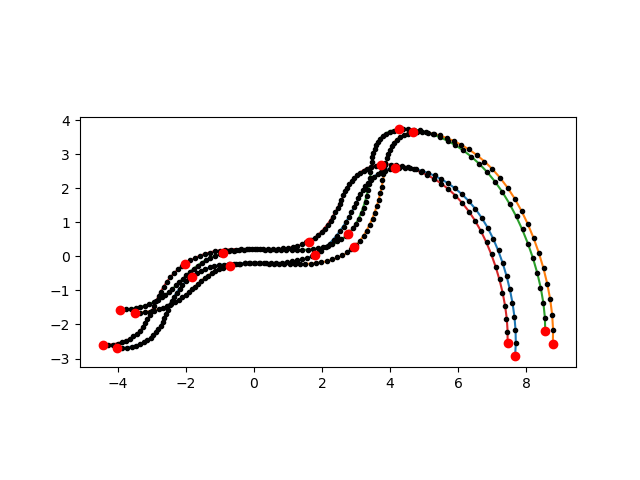
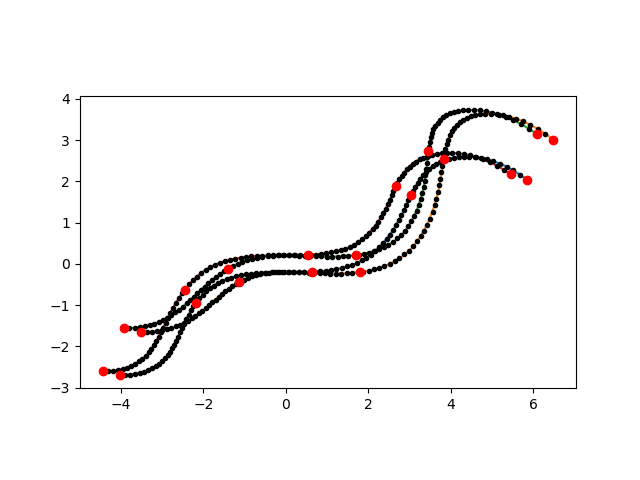
v1.2.0 t_zizz and other features for formation setpoint
Works well for these settings.

diff --git a/src/group.py b/src/group.py
@@ -86,8 +86,8 @@ class Group(Environment):
             scaling_step = 2.0
             # scaling_factors = [  [1 * scaling_step ** i, 1 / (scaling_step ** i) ] for i in range(0, math.floor(abs(math.log(0.010) / math.log(scaling_step))))  ]
             # scaling_factors = np.array(scaling_factors).reshape(-1).tolist()
-            scaling_factors_shrink = [  1 / (scaling_step ** i)  for i in range(0, math.floor(abs(math.log(0.010) / math.log(scaling_step))))  ]
-            scaling_factors_expand = [  1 * scaling_step ** i  for i in range(0, math.floor(abs(math.log(0.010) / math.log(scaling_step))))  ]
+            scaling_factors_shrink = [  1 / (scaling_step ** i)  for i in range(0, math.floor(abs(math.log(0.25) / math.log(scaling_step))))  ]
+            scaling_factors_expand = [  1 * scaling_step ** i  for i in range(0, math.floor(abs(math.log(0.25) / math.log(scaling_step))))  ]
             scaling_factors = scaling_factors_shrink + scaling_factors_expand
             scaling_factors = np.array(scaling_factors).reshape(-1).tolist()
             
@@ -121,7 +121,19 @@ class Group(Environment):
                     if collision == True:
                         costs += [math.inf]
                     else:
-                        cost = self.formation_change_cost_calculator(vehicle_positions, vehicle_positions_scaled_rotated)
+                        cost = self.formation_change_cost_calculator(vehicle_positions, vehicle_positions_scaled_rotated, rotation_angle, scaling_factor)
+                        # check collision for previous and future steps too!
+                        obstacle_corners_zizz = []
+                        for t_zizz in np.linspace(t_end - self.vehicles[0].t_step / 10 * 10 , t_end + self.vehicles[0].t_step / 10 * 10, 6):
+                        
+                            for obstacle in self.vehicles[0].obstacles:
+                                corners = [ [corner[0](t_zizz).tolist()[0][0], corner[1](t_zizz).tolist()[0][0]] for corner in obstacle.corners_spline]
+                                obstacle_corners_zizz += [corners]
+            
+                        all_collisions, collision = self.check_collision_with_obstacles(vehicle_positions_scaled_rotated, obstacle_corners_zizz)   
+                        if collision == True:
+                            cost = math.inf
+            
                         costs += [cost]
                     vehicle_positions_new_saved += [vehicle_positions_scaled_rotated]
                     
@@ -154,10 +166,22 @@ class Group(Environment):
     ###########################################################################
     ###########################################################################
     
-    def formation_change_cost_calculator(self, vehicle_positions_original, vehicle_positions_new):
+    def formation_change_cost_calculator(self, vehicle_positions_original, vehicle_positions_new, rotation_angle = 0, scaling_factor = 1):
         cost = 0
+        alpha_distance = 0.1
+        alpha_rotation = 0.0001
+        alpha_scaling_up = 1000
+        alpha_scaling_down = 1
         for original, new in zip(vehicle_positions_original, vehicle_positions_new):
-            cost += (original[0] - new[0])**2 + (original[1] - new[1])**2
+            cost += alpha_distance * (original[0] - new[0])**2 + (original[1] - new[1])**2
+            cost += alpha_rotation * abs(rotation_angle)
+            # cost += alpha_scaling * abs(1-scaling_factor)
+            if scaling_factor > 1:
+                cost += alpha_scaling_up * abs(1-scaling_factor)
+            if scaling_factor < 1:
+                cost += alpha_scaling_down * abs(1-scaling_factor)
+                
+            # cost += alpha_scaling_up * scaling_factor * abs(1-scaling_factor)
             
         return cost
     
@@ -232,7 +256,15 @@ class Group(Environment):
         if position_type == 'initial':
             position = self.start_position
             positions = self.position_generator(centerpoint = position, n_positions = len(self.vehicles), r = self.vehicles[0].radious * 6)
-
+            positions = self.ellipse_generator(centerpoint = position, n_positions = len(self.vehicles), a = self.vehicles[0].radious * 6, b = self.vehicles[0].radious * 3,
+                                               ellipse_rotation = math.pi / 2)
+            
+            
+    # def ellipse_generator(self, centerpoint : list, n_positions : int, a : float, b : float, 
+    #                       ellipse_rotation : float = 0, vehicles_rotation : float = 0,
+    #                       ellipse_scale_x : float = 1, ellipse_scale_y : float = 1):
+        
+        
             if self.stage == 0:
                 yaml_dict = {'crazyflies' : []}
                 for i, vehicle in enumerate(self.vehicles):
@@ -259,6 +291,8 @@ class Group(Environment):
         elif position_type == 'final':
             position = self.goal_position
             positions = self.position_generator(centerpoint = position, n_positions = len(self.vehicles), r = self.vehicles[0].radious * 6)
+            positions = self.ellipse_generator(centerpoint = position, n_positions = len(self.vehicles), a = self.vehicles[0].radious * 6, b = self.vehicles[0].radious * 3,
+                                               ellipse_rotation = math.pi / 2)
 
             if self.stage == 0:
                 yaml_dict = {'crazyflies' : []}
@@ -279,6 +313,16 @@ class Group(Environment):
         for i in range(len(self.vehicles)):
             self.vehicles[i].set_position(position = positions[i], position_type = position_type)
 
+
+    
+    ###########################################################################
+    ###########################################################################
+    ###########################################################################
+    ###########################################################################
+    ###########################################################################
+    ###########################################################################
+    ###########################################################################
+    
     def position_generator(self, centerpoint : list, n_positions : int, r : float):
         positions = []
         alpha = np.pi / 4.0 + np.pi / 8.0 # initial angle
@@ -288,6 +332,52 @@ class Group(Environment):
             alpha = alpha - np.pi * 2.0 / n_positions
 
         return positions
+    
+    # def ellipse_generator(self,
+    def ellipse_generator(self, centerpoint : list, n_positions : int, a : float, b : float, 
+                          ellipse_rotation : float = 0, vehicles_rotation : float = 0,
+                          ellipse_scale_x : float = 1, ellipse_scale_y : float = 1):
+        # centerpoint = [0, 0, 0]
+        # n_positions = 30
+        # a = self.vehicles[0].radious * 6
+        # b = self.vehicles[0].radious * 2
+        
+        # Rotating vehicles on the ellipse
+        alpha = 0 + vehicles_rotation
+        # Scaling
+        a *= ellipse_scale_x
+        b *= ellipse_scale_y
+        positions = []
+        for i in range(n_positions):
+            positions += [ [centerpoint[0] + a * np.cos(alpha), centerpoint[1] + b * np.sin(alpha), centerpoint[2]] ] # [x, vx, y, vy, z, vz]
+            alpha += np.pi * 2.0 / n_positions
+        
+        # Rotating the ellipse itself with the vehicles already in place
+        if ellipse_rotation != 0 and centerpoint[:2] == [0.0, 0.0]:
+            for i, pos in enumerate(positions):
+                positions[i][:2] = self.rotate_vector(pos[:2], ellipse_rotation)
+                
+        if ellipse_rotation != 0 and centerpoint[:2] != [0.0, 0.0]:
+            raise NotImplementedError()
+            
+        
+        return positions
+        # plt.figure()
+        # for pos in positions:
+        #     plt.plot(pos[0], pos[1], '.')
+        # plt.show()
+        # kappa = True
+        # return self
+    
+    
+    ###########################################################################
+    ###########################################################################
+    ###########################################################################
+    ###########################################################################
+    ###########################################################################
+    ###########################################################################
+    ###########################################################################
+    
 
     def add_obstacles(self, obstacles : list):
         for i in range(len(self.vehicles)):

diff --git a/src/frenet_path.py b/src/frenet_path.py
@@ -17,7 +17,7 @@ from .spline_extra import definite_integral, shift_spline, shift_knot1_fwd, shif
 
 
 class FrenetPath(object):
-    def __init__(self, tau_0 : float = float(-8), tau_f : float = float(5), N : int = 100):
+    def __init__(self, tau_0 : float = float(-6), tau_f : float = float(5), N : int = 100):
 
         self.tau_0 = tau_0
         self.tau_f = tau_f

diff --git a/frenet_optimization.py b/frenet_optimization.py
@@ -70,7 +70,7 @@ def run_optimizaiton(corners_list, start_position, goal_position, min_iterations
     # obstacles += [Obstacle(ID = 0, corners = corners)]
     
     # Obstacle 2
-    dx = 0.25
+    dx = 0.4
     dy = 0.3
     tmp_obs = ([-2.4674-dx, -1-dy],
              [-2.4674+dx, -1-dy],
